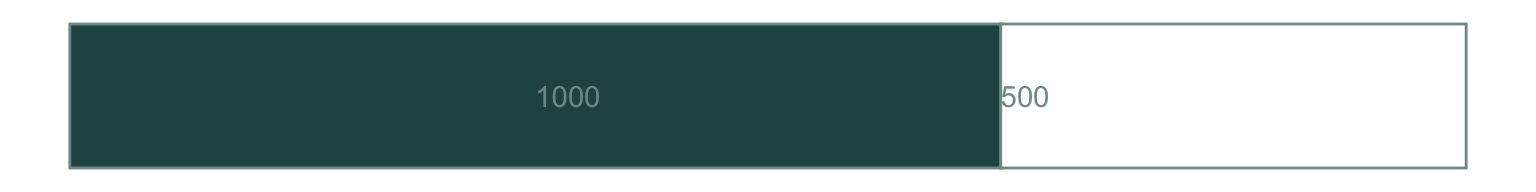
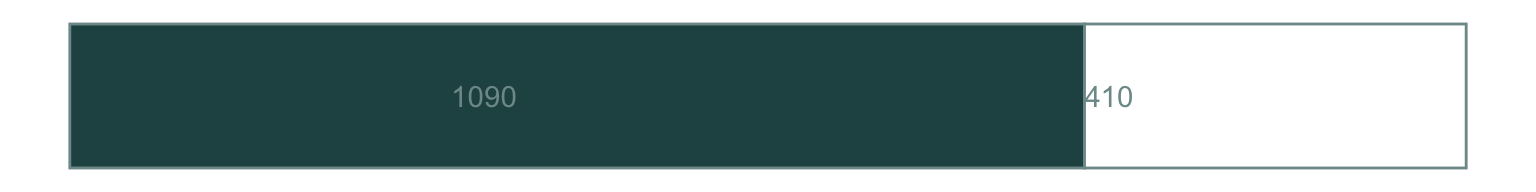
update

Changed region(s): [[0.625, 0.125, 0.75, 0.875], [0.2812, 0.4375, 0.4062, 0.5625]]

diff --git a/_site/index.html b/_site/index.html
@@ -2441,20 +2441,20 @@ code span.wa { color: #5e5e5e; font-style: italic; } /* Warning */
 
 <div class="d-article">
 <p><strong>მარათონი ახალ წლამდე ⛄ </strong></p>
-<p>ჩარიცხულია 1000 ₾</p>
+<p>ჩარიცხულია 1090 ₾</p>
 <div class="layout-chunk" data-layout="l-body">
 <p><img src="index_files/figure-html5/unnamed-chunk-1-1.png" width="768" /></p>
 </div>
 <p><strong>ბიბლიოთეკის მხარდამჭერები</strong></p>
 <div class="layout-chunk" data-layout="l-body">
-<div id="htmlwidget-4e013697ff947f103e19" style="width:100%;height:auto;" class="datatables html-widget"></div>
-<script type="application/json" data-for="htmlwidget-4e013697ff947f103e19">{"x":{"filter":"none","vertical":false,"data":[["1","2","3","4","5","6","7","8"],["თეონა ნადარეიშვილი","სალომე გოჩოლეიშვილი","ნაირა ნადარაია","თემურ გუგუშვილი ","ლალი ნადარეიშვილი","გვანცა სალუქვაძე ","სალომე ცხადაძე","მაია დანელია"]],"container":"<table class=\"hover cell-border stripe dt-head-right\">\n  <thead>\n    <tr>\n      <th>N<\/th>\n      <th>სახელი, გვარი<\/th>\n    <\/tr>\n  <\/thead>\n<\/table>","options":{"searching":false,"pageLength":20,"dom":"Bfrtip","columnDefs":[],"order":[],"autoWidth":false,"orderClasses":false,"lengthMenu":[10,20,25,50,100]}},"evals":[],"jsHooks":[]}</script>
+<div id="htmlwidget-aa027d7e6df762773ef5" style="width:100%;height:auto;" class="datatables html-widget"></div>
+<script type="application/json" data-for="htmlwidget-aa027d7e6df762773ef5">{"x":{"filter":"none","vertical":false,"data":[["1","2","3","4","5","6","7","8","9"],["თეონა ნადარეიშვილი","სალომე გოჩოლეიშვილი","ნაირა ნადარაია","თემურ გუგუშვილი ","ლალი ნადარეიშვილი","გვანცა სალუქვაძე ","სალომე ცხადაძე","მაია დანელია","თათია ნადარეიშვილი"]],"container":"<table class=\"hover cell-border stripe dt-head-right\">\n  <thead>\n    <tr>\n      <th>N<\/th>\n      <th>სახელი, გვარი<\/th>\n    <\/tr>\n  <\/thead>\n<\/table>","options":{"searching":false,"pageLength":20,"dom":"Bfrtip","columnDefs":[],"order":[],"autoWidth":false,"orderClasses":false,"lengthMenu":[10,20,25,50,100]}},"evals":[],"jsHooks":[]}</script>
 </div>
 <div class="warning" style='background-color:#60a2a8; color: #ebf4f5; border-left: solid #06707a 4px; border-radius: 4px; padding:0.7em;'>
 <span>
 <p style='margin-top:1em; text-align:center'>
 <p style="margin-left:1em;">
-<p><strong>სულ შეგროვილია 1120 ₾</strong></p>
+<p><strong>სულ შეგროვილია 1210 ₾</strong></p>
 <p>ბიბლიოთეკის მხარდაჭერისთვის დახარჯულია 120 ₾</p>
 <ul>
 <li><p>პერიოდული გამოცემები 120 ₾</p></li>
